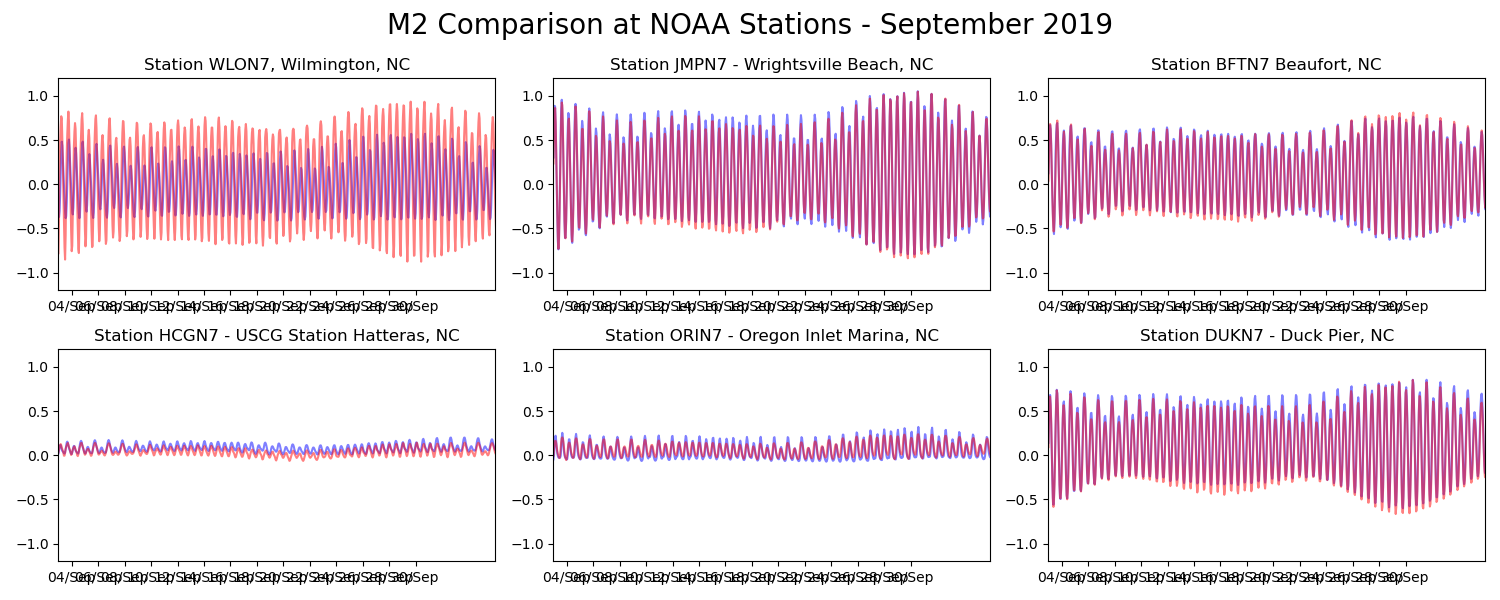
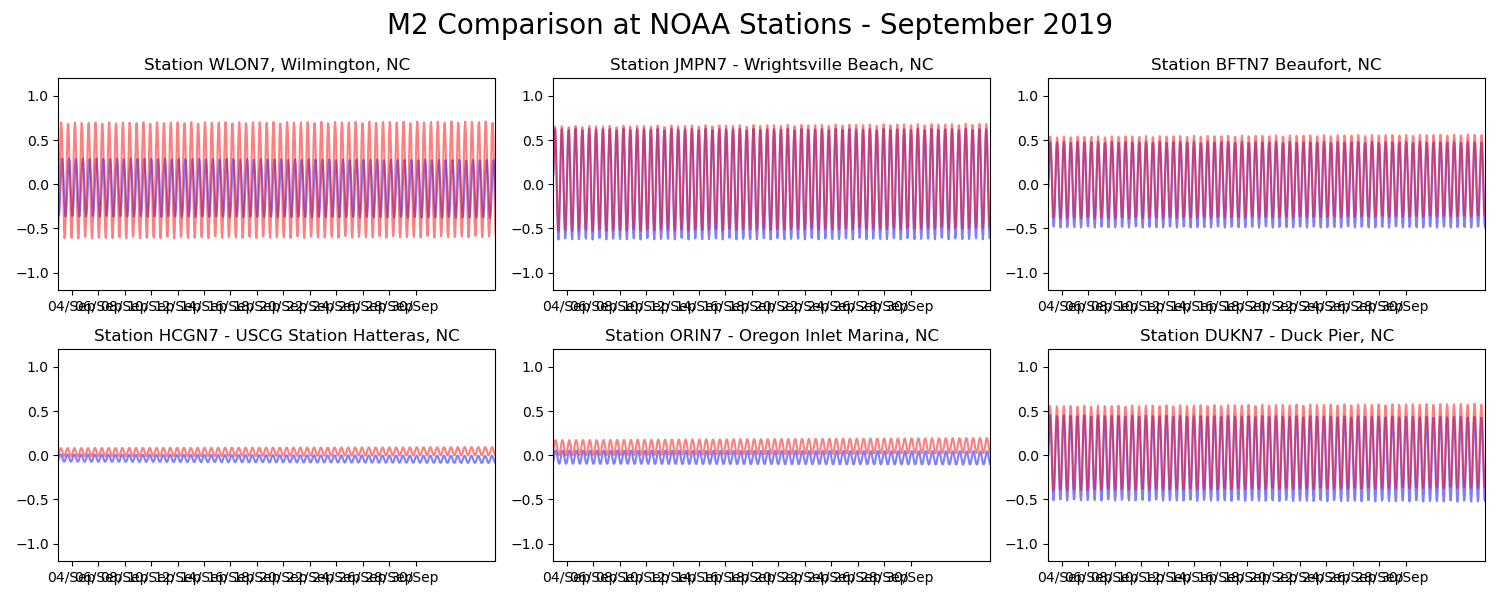
update tides compare

diff --git a/Calibration/Compare_NOAA_tides.py b/Calibration/Compare_NOAA_tides.py
@@ -43,8 +43,8 @@ for st,sta in enumerate(stations):
     coef=solve(mod.time+datenum(2019,1,1),myi,lat=34.2,nodal='False',trend='False',
             epoch='python',method='ols',conf_int='linear',Rayleigh_min=0.95) # harmonic analysis for model outputs based on tidal elevation
 
-    tide_obs=reconstruct(t,coef_obs) # 
-    tide=reconstruct(t,coef)
+    tide_obs=reconstruct(t,coef_obs,constit="M2") # 
+    tide=reconstruct(t,coef,constit='M2')
     plot(t,tide['h'],alpha=0.5,label='Modeled M2',color="b")
     plot(t,tide_obs['h'],alpha=0.5,label='Observed M2',color="r")
 
